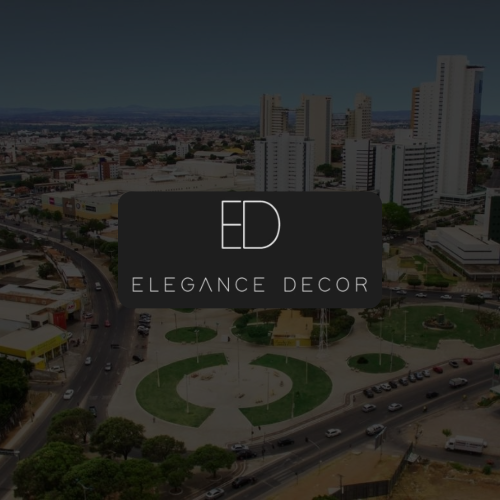
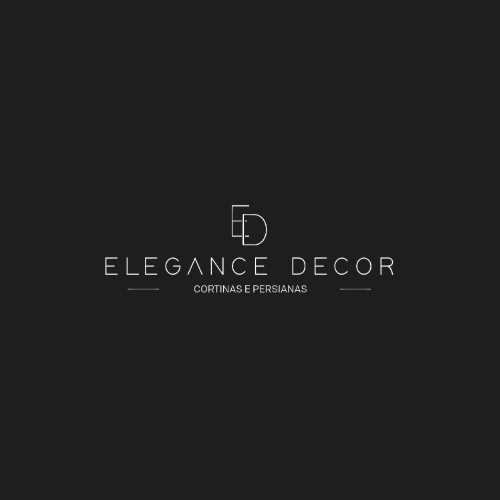
mudança num2

diff --git a/styles.css b/styles.css
@@ -13,7 +13,7 @@ html {
 }
 
 ::-webkit-scrollbar-thumb{
-    background-color: #B79359;
+    background-color: #1E1E1E;
     border-radius: 30px;
 }
 
@@ -50,32 +50,31 @@ section.sec-1 {
     font-size: 20px;
     color: white;
     max-width: 500px;
-    font-weight: 100;
+    font-weight: 400;
 }
 
 .txt1 img{  
-    border-radius: 20px;
-    margin-left: 900px;    
+    border-radius: 20px;  
 }
 
 .txt-topo{
-    margin-top: 50px;
+    margin-top: 20px;
 }
 
 button{
     width: 150px;
     color: white;
-    background-color: #B79359;
+    background-color: #1E1E1E;
     border-radius: 30px;
     padding: 6px;
-    border: solid 3px #B79359;
+    border: solid 3px #1E1E1E;
     margin-top: 20px;
     cursor: pointer;
     transition: background-color 0.5s ease, transform 0.5s ease; /* Define a transição */
 }
 
 button:hover{
-    color: #B79359;
+    color: #1E1E1E;
     background-color: white;
     transform: scale(1.04);
     transition: .2s;
@@ -92,7 +91,7 @@ section.sec-2{
 }
 
 .txt-sec2 h2,h4,p{
-    color: #B79359;
+    color: #1E1E1E;
 }
 
 .txt-sec2 h2{
@@ -106,7 +105,7 @@ section.sec-2{
     max-width: 519px;
     line-height: 35px;
     font-weight: 300;
-    color: #7C643D;
+    color: #3a3a3a;
 }
 
 .txt-sec2{
@@ -115,11 +114,7 @@ section.sec-2{
 
 .txt-sec2 p{
     max-width: 585px;
-    color: #7C643D;
-}
-
-.txt-sec2 button{
-    border: solid 2px #B79359;
+    color: #1E1E1E;
 }
 
 section.sec-2 .flex{
@@ -150,7 +145,7 @@ section.sec-3 .flex{
 }
 
 .box{
-    background-color: #B79359;
+    background-color: #1E1E1E;
     border-radius: 30px;
     margin-bottom: 20px;
     height: 426px;
@@ -181,14 +176,14 @@ section.sec-3 .flex{
 }
 
 .sec-3 .flex-b .box:hover img {
-    opacity: 0.7;
+    opacity: 0.3;
     transition: 0.6s ease;
 }
 
 .titulo-sec3 h1{
     font-size: 48px;
     max-width: 346px;
-    color: #B79359;
+    color: #1E1E1E;
     line-height: 50px;
 }
 
@@ -196,7 +191,7 @@ section.sec-3 .flex{
     max-width: 665px;
     font-size: 20px;
     line-height: 25px;
-    color: #7C643D;
+    color: #131313;
 }
 
 .sec-3 .flex-b .box {
@@ -218,10 +213,13 @@ section.sec-3 .flex{
 
 section.sec-4{
     margin-top: 100px;
+    height: 460px;
+    background-color: #1E1E1E;
+    padding: 50px;
 }
 
 .titulo4 h1{
-    color: #B79359;
+    color: #ffffff;
     font-size: 48px;
     line-height: 50px;
     max-width: 346px;
@@ -229,7 +227,7 @@ section.sec-4{
 
 .para4 p{
     font-size: 20px;
-    color: #7C643D;
+    color: #ffffff;
     line-height: 25px;
     max-width: 635px;
 }
@@ -239,29 +237,37 @@ section.sec-4 .flex{
     gap: 40px;
 }
 
+section.sec-4 button{
+    background-color: #ffffff;
+    color: #1E1E1E;
+    border: solid 2px #ffffff;
+}
+
+section.sec-4 button:hover{
+    background-color: #3a3a3a;
+    color: #ffffff;
+
+}
+
 .box1{
     max-width: 393px;
     margin-top: 80px;
 }
 
 .box1 h1{
-    color: #B79359;
+    color: #ffffff;
     font-size: 32px;
 }
 
 .box1 p{
     font-size: 14px;
-    color: #7C643D;
+    color: #ffffff;
     max-width: 297px;
-}
-
-.box1 button{
-    border: solid 2px #B79359 ;
 }
 
 .box1 I{
     font-size: 40px;
-    color: #B79359;
+    color: #ffffff;
     margin-right: -20px;
 }
 
@@ -278,7 +284,7 @@ section.sec-5 .flex{
 }
 
 .titulo-s h1{
-    color: #B79359;
+    color: #1E1E1E;
     font-size: 48px;
     max-width: 200px;
     line-height: 50px;
@@ -287,7 +293,7 @@ section.sec-5 .flex{
 
 .txt-sobre p{
     max-width: 390px;
-    color:#7C643D;
+    color:#161616;
     font-size: 15px;
 }
 
@@ -295,7 +301,6 @@ section.sec-5 .flex{
 section.sec-5 button{
     font-size: 20px;
     font-weight: 600;
-    border: solid 3px #B79359;
 }
 
 .img-sobre img{
@@ -305,13 +310,14 @@ section.sec-5 button{
 /*rodapé*/
 section.rodapé .txt1 img{
     margin-left: 0;
-    margin-top: 15px;
+    margin-bottom: -50px;
     margin-left: 30px;
+    margin-top: -30px;
 }
 
 section.rodapé{
     height: 300px;
-    background-color: #B79359;
+    background-color: #1E1E1E;
     margin-top: 200px;
 }
 
@@ -334,7 +340,7 @@ section.rodapé .flex{
 
 .coluna-2 h1{
     font-size: 38px;
-    color: #7C643D;
+    color: #ffffff;
 }
 
 .icones a {
@@ -347,7 +353,7 @@ section.rodapé .flex{
 }
 
 .icones :hover{
-    color: #7C643D;
+    color: #0e0e0e;
     transition: .2s ease;
 }
 
@@ -358,7 +364,7 @@ section.rodapé .flex{
 
 .icones i{
     font-size: 20px;
-    color: #7C643D;
+    color: #faf9f8;
     padding: 10px;
 }
 
@@ -382,12 +388,9 @@ hr{
         padding: 10px;
     }
 
-    .txt1 h5{
-        margin-left: 0;
-        margin-top: 100px;
-        width: 240px;
-        font-size: 25px;
-        margin-bottom: 50px;
+    .txt1 img{
+        margin-top: 30px;
+        margin-bottom: -30px;
     }
     /*section 2*/
     .flex{
@@ -411,8 +414,17 @@ hr{
     }
 
     /*section 4*/
+    section.sec-4{
+        height: 1400px;
+    }
+
     .titulo4, .para4{
         padding: 10px;
+    }
+
+    .icone i{
+        margin-left: -15px;
+        margin-bottom: -20px
     }
 
     .box1{
@@ -421,7 +433,6 @@ hr{
 
     .box1 p{
         align-items: center;
-        margin-left: 50px;
     }
     /*section 5*/
     .img-sobre img{

diff --git a/index.html b/index.html
@@ -18,7 +18,7 @@
         rel="stylesheet">
     <!--google fontes-->
     <!--favicon-->
-    <link rel="icon" href="imgs/FLAVICON.png">
+    <link rel="icon" href="imgs/flavicon (2).png">
     <!--favicon-->
     <title>Elegance Decor</title>
 </head>
@@ -32,7 +32,7 @@
         <div class="interface">
             <div class="txt-topo">
                 <div class="txt1">
-                    <img src="imgs/Logo.jpeg" alt="" width="350px">
+                    <img src="imgs/LOGO SEM fundo.png" alt="" width="350px">
                     <h1>Cortinas sob medida para ambientes sofisticados.</h1>
                     <p>Nós produzimos Cortinas sob medida, refletindo sua personalidade e elevando o padrão do ambiente.
                     </p>
@@ -253,7 +253,7 @@
             <div class="flex">
                 <div class="coluna-1">
                    <div class="txt1">
-                        <img src="imgs/Logo.jpeg" alt="" width="300px">
+                        <img src="imgs/LOGO SEM fundo.png" alt="" width="300px">
                     </div>
                     <p>A Elegance Decor, Confiança, qualidade e segurança em todos os processos de fabricação à
                         instalação!</p>
